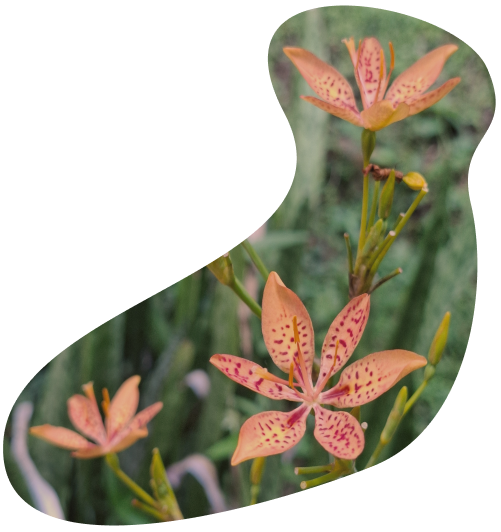
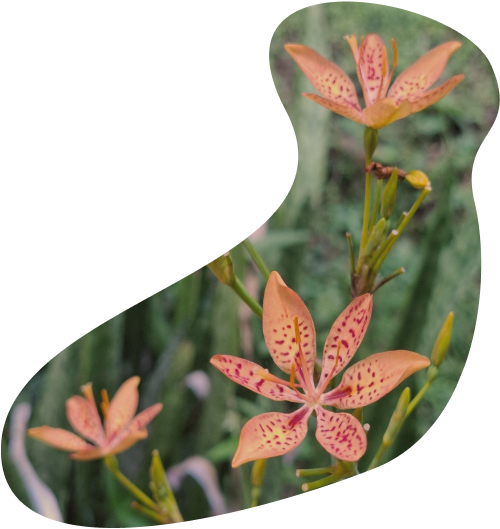
Remove empty space around blob in imgs. Reconvert losslessly png to webp. Readjust positioning of blob outline with lines and widget

diff --git a/src/index.html b/src/index.html
@@ -123,21 +123,21 @@
 					<!-- Mobile -->
 					<source media="(max-width: 769px)" srcset="
 					./assets/img/blob-mobile-342.webp 342w,
-					./assets/img/blob-mobile-390.webp 390w,
-					./assets/img/blob-mobile-420.webp 420w,
-					./assets/img/blob-mobile-450.webp 450w,
+					./assets/img/blob-mobile-380.webp 380w,
+					./assets/img/blob-mobile-410.webp 410w,
+					./assets/img/blob-mobile-440.webp 440w,
 					./assets/img/blob-mobile-470.webp 470w,
-					./assets/img/blob-mobile-500.webp 500w" type="image/webp" sizes="
-						(max-width: 769px) calc(100vw - 32px)">
+					./assets/img/blob-mobile-500.webp 500w" type="image/webp"
+						sizes="(min-width: 420px) calc(85vw - 32px), calc(20vw + 264px)">
 
 					<source media="(max-width: 769px)" srcset="
 					./assets/img/blob-mobile-342.png 342w,
-					./assets/img/blob-mobile-390.png 390w,
-					./assets/img/blob-mobile-420.png 420w,
-					./assets/img/blob-mobile-450.png 450w,
+					./assets/img/blob-mobile-380.png 380w,
+					./assets/img/blob-mobile-410.png 410w,
+					./assets/img/blob-mobile-440.png 440w,
 					./assets/img/blob-mobile-470.png 470w,
-					./assets/img/blob-mobile-500.png 500w" type="image/png" sizes="
-					(max-width: 769px) calc(100vw - 32px)">
+					./assets/img/blob-mobile-500.png 500w" type="image/png"
+						sizes="(min-width: 420px) calc(85vw - 32px), calc(20vw + 264px)">
 
 					<!-- Desktop -->
 					<source media="(min-width: 770px)" srcset="
@@ -146,18 +146,20 @@
 					./assets/img/blob-desktop-470.webp 470w,
 					./assets/img/blob-desktop-525.webp 525w,
 					./assets/img/blob-desktop-580.webp 580w,
-					./assets/img/blob-desktop-620.webp 620w
-					" type="image/webp" sizes="(max-width: 850px) 46vw, 620px">
+					./assets/img/blob-desktop-800.webp 800w
+					" type="image/webp"
+						sizes="(min-width: 1280px) 537px, (min-width: 860px) calc(39vw + 46px), (min-width: 780px) 342px">
 					<source media="(min-width: 770px)" srcset="
 					./assets/img/blob-desktop-342.png 342w,
 					./assets/img/blob-desktop-400.png 400w,
 					./assets/img/blob-desktop-470.png 470w,
 					./assets/img/blob-desktop-525.png 525w,
 					./assets/img/blob-desktop-580.png 580w,
-					./assets/img/blob-desktop-620.png 620w
-					" type="image/png" sizes="(max-width: 850px) 46vw, 620px">
-					<img id="heroImg" src="" data-src="./assets/img/blob-desktop-470.png" alt="" fetchpriority="high"
-						loading="eager" width="300" height="360">
+					./assets/img/blob-desktop-800.png 800w
+					" type="image/png"
+						sizes="(min-width: 1280px) 537px, (min-width: 860px) calc(39vw + 46px), (min-width: 780px) 342px">
+					<img id="heroImg" src="" data-src="./assets/img/blob-desktop-470.png" alt="" fetchpriority="high" loading="eager" width="300"
+						height="360">
 
 				</picture>
 				<svg class="outline" id="outline" viewBox="0 0 368 390" preserveAspectRatio="none" fill="none"
@@ -172,11 +174,9 @@
 						d="M34.05 292.561C41.3765 203.239 255.361 192.919 208.211 95.4746C161.062 -1.96935 313.293 27.9452 330.814 71.2541C348.336 114.563 309.976 110.058 318.893 153.835C328.869 202.807 315.985 290.285 256.274 312.919C196.564 335.553 26.7234 381.883 34.05 292.561Z" />
 				</svg>
 			</div>
-			<div class="lines">
-				<svg class="lines-svg" role="presentation">
-					<use xlink:href="./assets/svg/elements.svg#lines"></use>
-				</svg>
-			</div>
+			<svg class="lines" role="presentation" viewBox="0 0 375 85">
+				<use xlink:href="./assets/svg/elements.svg#lines"></use>
+			</svg>
 		</section>
 	</header>
 

diff --git a/src/scss/pages/home/_header.scss b/src/scss/pages/home/_header.scss
@@ -40,16 +40,14 @@
   &__img {
     position: relative;
     align-self: flex-end;
-    // width: 120%;
-    max-width: 500px;
-    transform: translate(calc(43% - 30vw), -175px);
+    transform: translate(calc(65% - 50vw), calc(-109px - 10vw));
     z-index: -1;
 
     .outline {
       position: absolute;
       inset: 0;
-      width: 122%;
-      transform: translate(-9%, -8%);
+      width: 124%;
+      transform: translate(-10%, -8.5%);
       mask-image: linear-gradient(
         to bottom,
         rgba(0, 0, 0, 0.4),
@@ -71,12 +69,8 @@
   }
 
   .lines {
-    margin-block-start: -150px;
+    margin-block-start: -90px;
     transform: translateX(-1rem);
-
-    .lines-svg {
-      min-width: 100vw;
-      height: 100%;
-    }
+    min-width: 100vw;
   }
 }

diff --git a/src/scss/abstracts/_container-queries.scss b/src/scss/abstracts/_container-queries.scss
@@ -178,12 +178,11 @@ footer {
 
       &__img {
         transform: translate(0, 0);
-        max-width: unset;
+        max-width: 46%;
 
         .outline {
-          height: 109%;
-          width: 110%;
-          transform: translate(-4.5%, -7.5%);
+          width: 128%;
+          transform: translate(-8%, -8%);
           overflow: hidden;
 
           path {

diff --git a/src/scss/pages/home/_about.scss b/src/scss/pages/home/_about.scss
@@ -27,6 +27,10 @@
     margin: 0;
   }
 
+  div.about-me__container {
+    margin-block-start: 0px;
+  }
+
   &__frame {
     display: none;
   }
